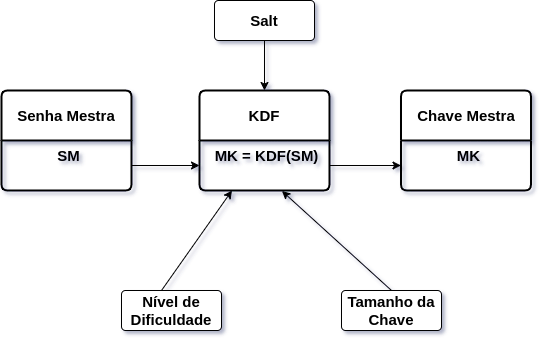
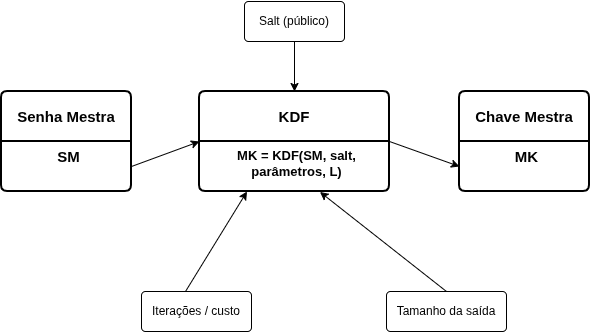
Melhora explicação e diagrama de KDF

diff --git a/conceitos/criptografia.tex b/conceitos/criptografia.tex
@@ -367,23 +367,18 @@ Uma KEK protege chaves de dados e ajuda a separar a gestão de chaves da cifrage
 
 \subsection{Key Derivation Functions (KDF)}
 
-As funções de derivação de chaves (Key Derivation Functions - KDF) são um componente essencial na segurança e criptografia de dados. Estas funções são utilizadas para transformar um segredo inicial, como uma senha ou uma chave de criptografia, em uma ou mais chaves criptográficas que podem ser usadas para cifrar dados ou autenticar mensagens.\\
+As funções de derivação de chaves (Key Derivation Functions -- KDFs) transformam um segredo inicial, como uma senha, em uma ou mais chaves criptográficas de tamanho definido. A Figura \ref{fig:kdf} ilustra a derivação de uma chave a partir de uma Senha Mestra. A derivação também depende de um salt e de parâmetros que controlam o custo da operação.
 
-O processo de derivação de chave geralmente envolve a aplicação de uma função matemática que transforma a entrada original em uma chave na saída. A Figura \ref{fig:kdf} exemplifica o processo de derivação da Senha Mestra em uma Chave Mestra. Esta transformação é feita para garantir que a chave resultante seja segura e apropriada para uso em operações criptográficas. Os KDFs são projetados para serem resistentes a ataques, como ataques de força bruta, onde um atacante tenta todas as combinações possíveis até encontrar a correta.
+O salt deve ser único para cada derivação e pode ser armazenado junto aos dados e aos parâmetros da KDF; ele não precisa ser secreto. Seu uso evita que senhas iguais produzam necessariamente a mesma chave e dificulta o pré-cálculo de tabelas. Uma KDF apropriada para senhas aumenta o custo de cada tentativa de adivinhação, mas não elimina ataques de força bruta nem compensa uma senha fraca.
+
+Um exemplo é PBKDF2 (Password-Based Key Derivation Function 2), especificada no PKCS \#5. Ela aplica uma função pseudorrandômica, como HMAC-SHA-256, repetidamente; o número de iterações é um de seus parâmetros de custo. Argon2, selecionada na Password Hashing Competition, é outra opção e permite configurar parâmetros como memória, tempo e paralelismo. Os parâmetros utilizados devem ser armazenados para possibilitar a derivação posterior da mesma chave e escolhidos conforme as recomendações atuais e os recursos disponíveis.
 
 \begin{figure}[H]
-	\centering
-	\includegraphics[scale=0.45]{kdf.png}
-	\caption{Funcionamento do conceito Key Derivation Functions (KDF)}
-	\label{fig:kdf}
+\centering
+\includegraphics[scale=0.45]{kdf.png}
+\caption{Derivação de chave a partir de uma senha, salt e parâmetros da KDF}
+\label{fig:kdf}
 \end{figure}
-
-Um exemplo comum de KDF é a função PBKDF2 (Password-Based Key Derivation Function 2), definida no padrão PKCS \#5. O PBKDF2 usa um algoritmo de hash criptográfico, como SHA-256, e um determinado número de iterações para transformar a senha inicial em uma chave derivada. O processo de iteração aumenta a dificuldade de ataques de força bruta, pois cada tentativa de senha requer várias operações de hash.\\
-
-Além de PBKDF2, há também Argon2, uma KDF moderna que ganhou o Password Hashing Competition (PHC) em 2015. Argon2 é altamente configurável, permitindo ajustes precisos em termos de memória, tempo de processamento e paralelismo, oferecendo um equilíbrio entre segurança e performance.\\
-
-O uso de KDFs é essencial em sistemas onde a segurança da chave criptográfica é crucial. Sem um KDF adequado, as chaves derivadas podem ser vulneráveis a diversos tipos de ataques, comprometendo a integridade e confidencialidade dos dados. Portanto, a escolha e implementação corretas de uma KDF robusta são fundamentais para a segurança criptográfica eficaz.\\
-
 Abaixo estão exemplos de comandos que utilizam o OpenSSL para realizar o processo de Key Derivation Functions (KDF), que é usado para derivar uma chave criptográfica a partir de uma senha ou outra informação inicial.
 
 \begin{enumerate}
